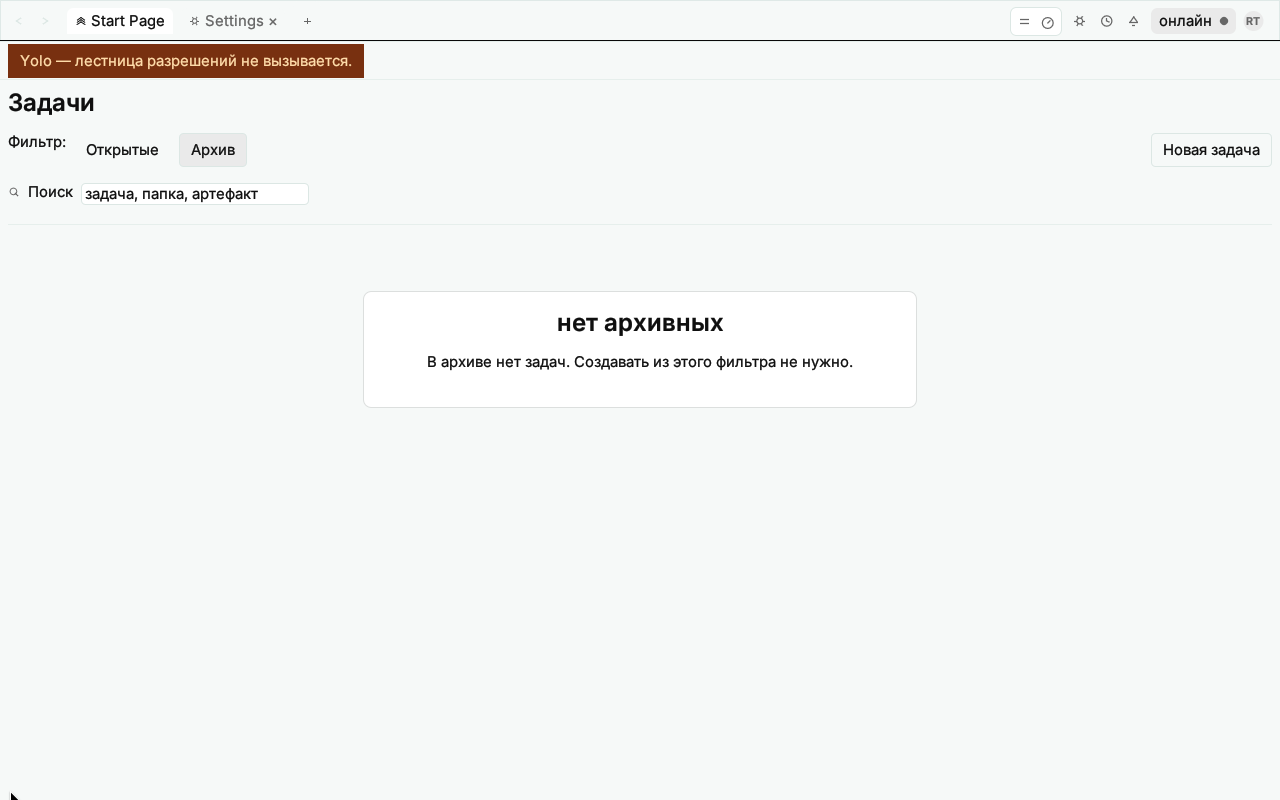
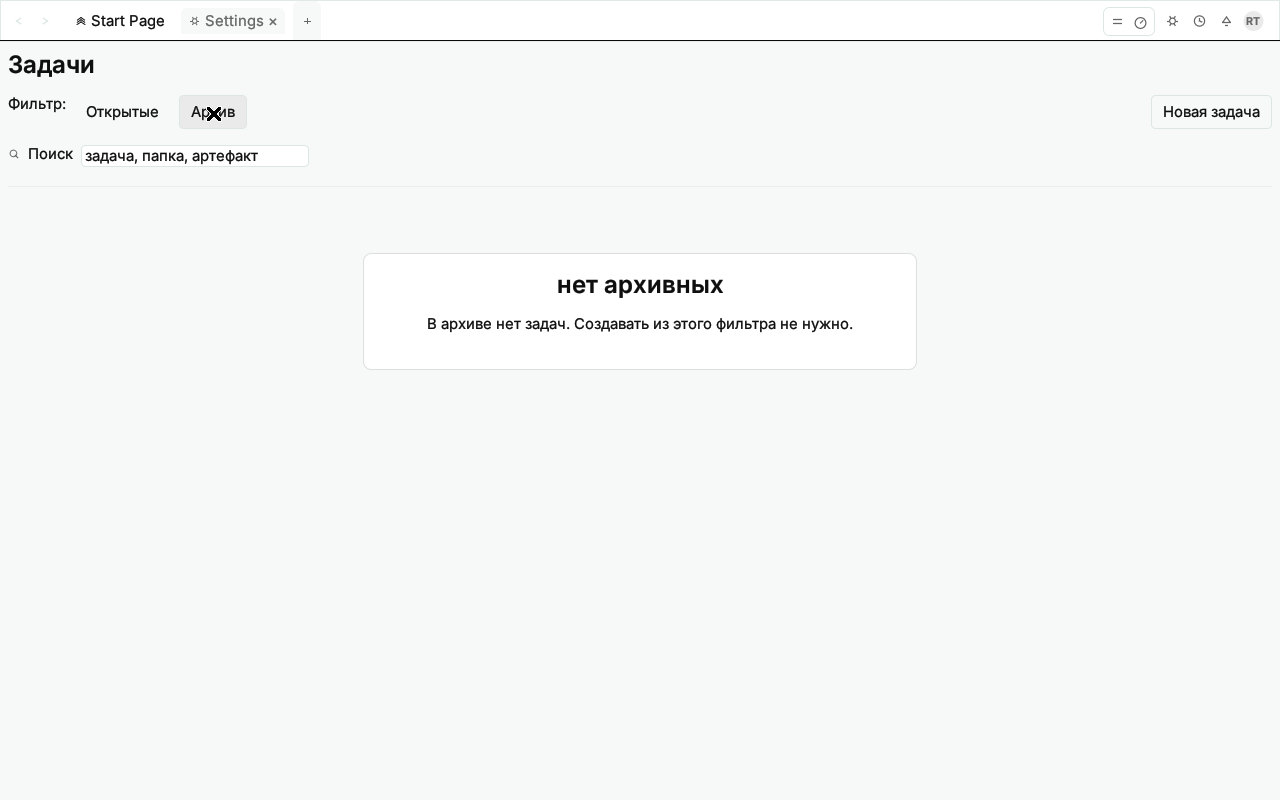
docs: STAR 0139 ours parity shots after chrome plate

diff --git a/docs/parity-shots/README.md b/docs/parity-shots/README.md
@@ -1,32 +1,32 @@
-# Parity shots — ours after chrome IA 0133
+# Parity shots — ours after chrome plate 0138
 
-Observe-only captures of **our** `rt-gui` after STAR 0133 chrome IA (tab strip Start Page / Settings / `+` / avatar). Not official Traycer. No `asar`.
+Observe-only recapture of **our** `rt-gui` after STAR 0138 header plate (white `BG_HEADER` + hairline, online pill removed). Not official Traycer. No `asar`.
 
 ## Build / session
 
 | Field | Value |
 |---|---|
-| Branch | `task/0135-v3-ours-shots-chrome` |
-| Worktree | `/workspace/wt-0135-v3-ours-shots-chrome` |
-| Base | `8ce54bba3ea18c309bf7566618fd549fdcd0d656` (merge STAR 0133; not rebased onto `88633cd` / `48b873a`) |
-| Chrome IA | `87254b4` `feat(gui): chrome IA tab strip matching design-parity HT` |
-| Binary | `cargo build -p rt-gui --release` in this worktree |
-| Display | Xvfb `:10` 1280×800×24 (not `:3` official) |
+| Branch | `task/0139-v3-ours-shots-plate` |
+| Worktree | `/workspace/wt-0139-v3-ours-shots-plate` |
+| Base | `9de19f3bab3e7c1b45a2926ade5b8ab108d082da` (merge STAR 0138; contains `4b14af4`) |
+| Plate commit | `4b14af4` `feat(gui): chrome header plate and drop online pill` |
+| Binary | `cargo build -p rt-gui --release` in this worktree → `/workspace/wt-0139-v3-ours-shots-plate/target/release/rt-gui` |
+| Display | Xvfb `:11` 1280×800×24 (not `:10` 0135 gui, not `:3` official) |
 | Window | `RustTraycer` 1280×800+0+0 |
 | `RUSTTRAYCER_HOME` | `/workspace/df-0102-home` |
 | hostId | `01a01b47-e863-71d3-bd2d-e885cf484d7a` |
-| host pid | **28385** (`rt-host` started 2026-08-27 after stale 229448 died; GUI reconnect via `pid.json`) |
-| rpcUrl | `http://127.0.0.1:43549` (binary binds `127.0.0.1:0`; `:45927` was down) |
-| Capture | 2026-08-27 21:09–21:12 YEKT (16:09–16:12 UTC). `ffmpeg -f x11grab`. |
-| Policy | Did not rebase. Did not merge/push. Did not start or kill official host 339885. No asar. |
+| host pid | **35281** (live OUR host; not restarted) |
+| rpcUrl | `http://127.0.0.1:43811` |
+| Capture | 2026-08-27 21:36–21:40 YEKT (16:36–16:40 UTC). `ffmpeg -f x11grab` from `:11`. |
+| Policy | Did not rebase. Did not merge/push. Did not start or kill official host 339885. Did not reuse `:10` 0135 gui. No asar. |
 
 ## Pairing
 
-Official frames live under `docs/reference-screens/`. Pair only where the surface honestly matches. Official Start Page / History from STAR 0134 live on `88633cd`, **not** on this `8ce54bb` base.
+Official frames live under `docs/reference-screens/`. Pair only where the surface honestly matches. Official Start Page / History from STAR 0134 live on `88633cd`, **not** on this `9de19f3` base.
 
 | Ours | Pixels | Official pair |
 |---|---|---|
-| [`ours/chrome.png`](ours/chrome.png) | 1280×40 | [`logged-in-header-tabs-avatar.png`](../reference-screens/logged-in-header-tabs-avatar.png) **HT** — Start Page / Settings / `+` / avatar strip. Crop heights differ (40 vs 88). |
+| [`ours/chrome.png`](ours/chrome.png) | 1280×40 | [`logged-in-header-tabs-avatar.png`](../reference-screens/logged-in-header-tabs-avatar.png) **HT** — Start Page / Settings / `+` / avatar strip. Ours is the 40 px white plate (0138); official is 88 px (menu + tabs). Official has no «онлайн» pill either; ours dropped the pill in 0138 (`4b14af4`). |
 | [`ours/tasks.png`](ours/tasks.png) | 1280×800 | no official pair on this base |
 | [`ours/empty.png`](ours/empty.png) | 1280×800 | no official pair |
 | [`ours/canvas.png`](ours/canvas.png) | 1280×800 | no official pair |
@@ -35,15 +35,15 @@ Official frames live under `docs/reference-screens/`. Pair only where the surfac
 
 ## What each ours frame shows
 
-- **chrome** — 40 px nav: back/forward, **Start Page** tab, **Settings** tab, **+**, utility cluster, green **онлайн**, **RT** avatar.
-- **tasks** — open-task list (STAR 0128/0131/0134 rows), filter Открытые / Архив, Новая задача. Chrome IA visible.
-- **empty** — Архив filter: card «нет архивных».
-- **canvas** — task `STAR 0128 L187 exact wording`, agents + canvas/chat split, YOLO banner.
-- **chat** — right-pane crop: вид Канвас, плитка `cli.generic`, Чат tab, empty transcript, composer «Написать сообщение…».
-- **host** — Host diagnostics from `pid.json`: hostId / pid **28385** / `:43549` / `startedAt` 2026-08-27T16:06:39.938Z.
+- **chrome** — 40 px white plate (`#FFFFFF` fill, `#DFE9E7` hairline): back/forward, **Start Page** tab, **Settings** tab, **+**, utility cluster, **RT** avatar. **No «онлайн» pill** (removed 0138). Mouse parked off the bar.
+- **tasks** — open-task list (STAR 0135/0134/0131/0128 rows), filter Открытые / Архив, Новая задача. Same white-plate chrome, no pill. No YOLO banner here (no selected-agent policy on Start Page).
+- **empty** — Архив filter: card «нет архивных». Same chrome plate.
+- **canvas** — task `STAR 0128 L187 exact wording`, agents + canvas/chat split, YOLO banner «Yolo — лестница разрешений не вызывается.» Chrome plate, no pill.
+- **chat** — right-pane crop 400×680 at (880, 80): вид Канвас, плитка `cli.generic`, Чат tab, empty transcript, composer «Написать сообщение…».
+- **host** — Host diagnostics from `pid.json`: **status онлайн** (0138 moved the label off chrome into this page), hostId / pid **35281** / `:43811` / `startedAt` 2026-08-27T16:13:51.386Z. YOLO banner still visible (selected-task policy), not a host-down banner. Settings tab selected.
 
 ## Not captured
 
-- **Host-error / reconnect banner** — `/health` 200, GUI **онлайн**.
+- **Host-error / reconnect banner** — `/health` 200. Status «онлайн» is a Host-page field, not a chrome pill.
 - **Populated chat** — transcript empty.
 - **Official Settings acts** — our Settings tab opens Host diagnostics, not Appearance/Providers/Keybindings.
